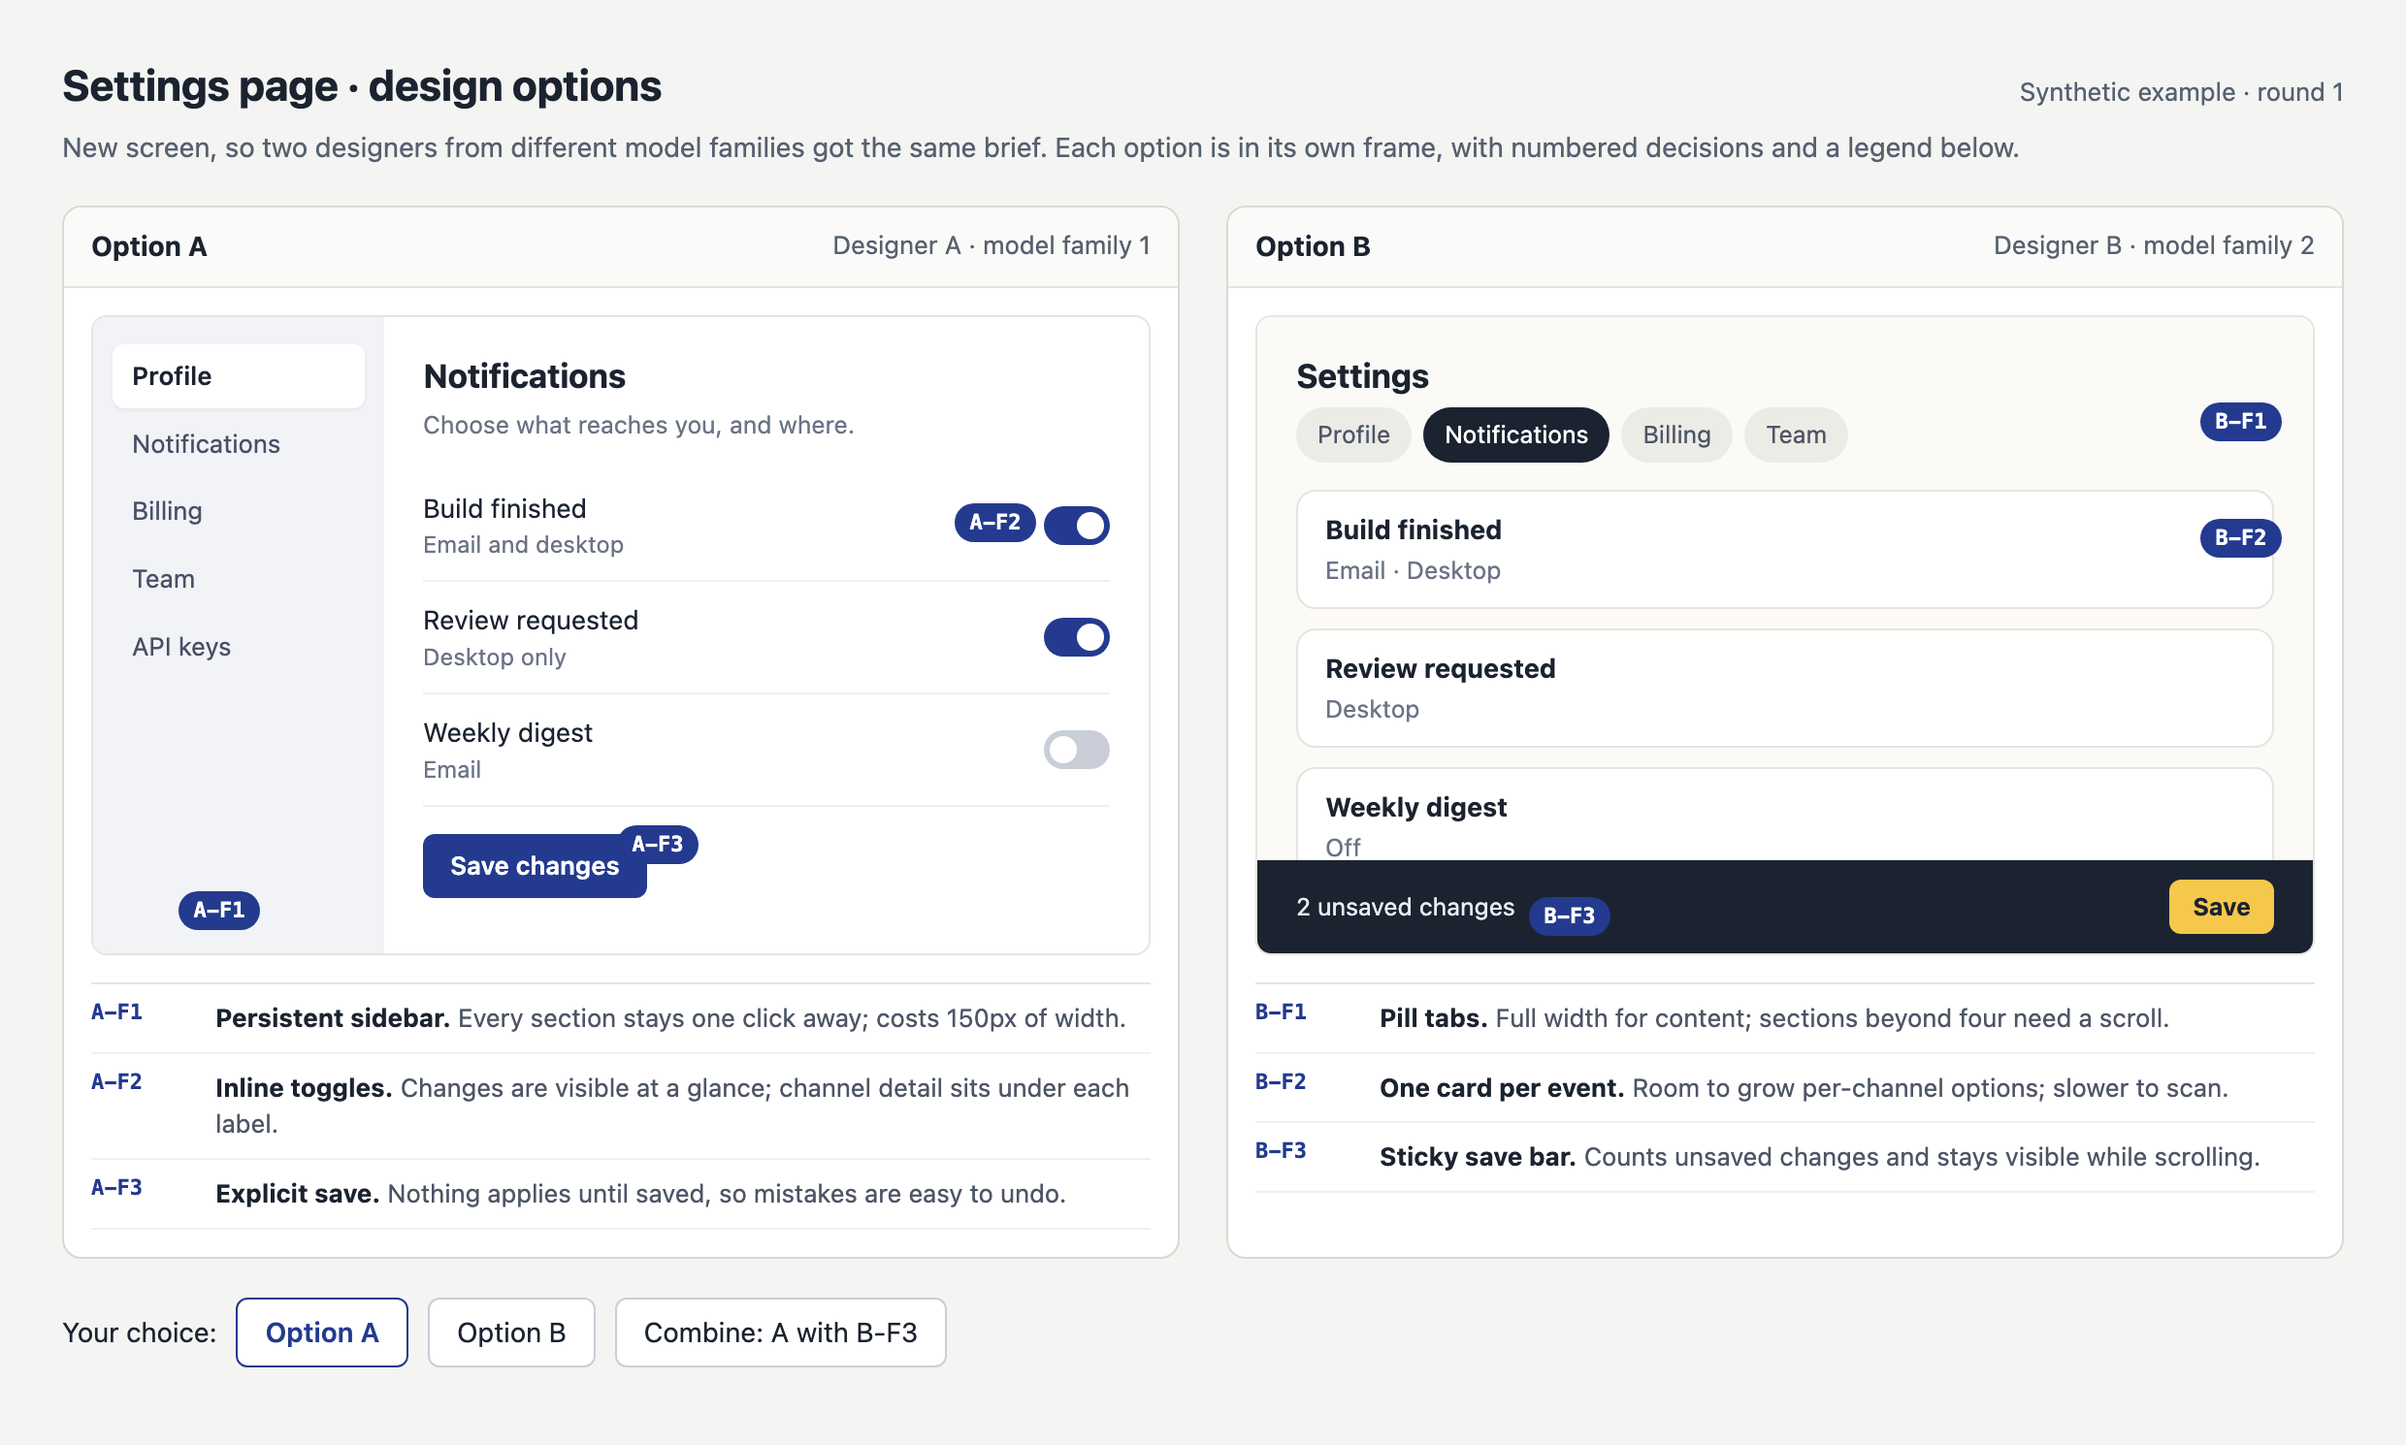
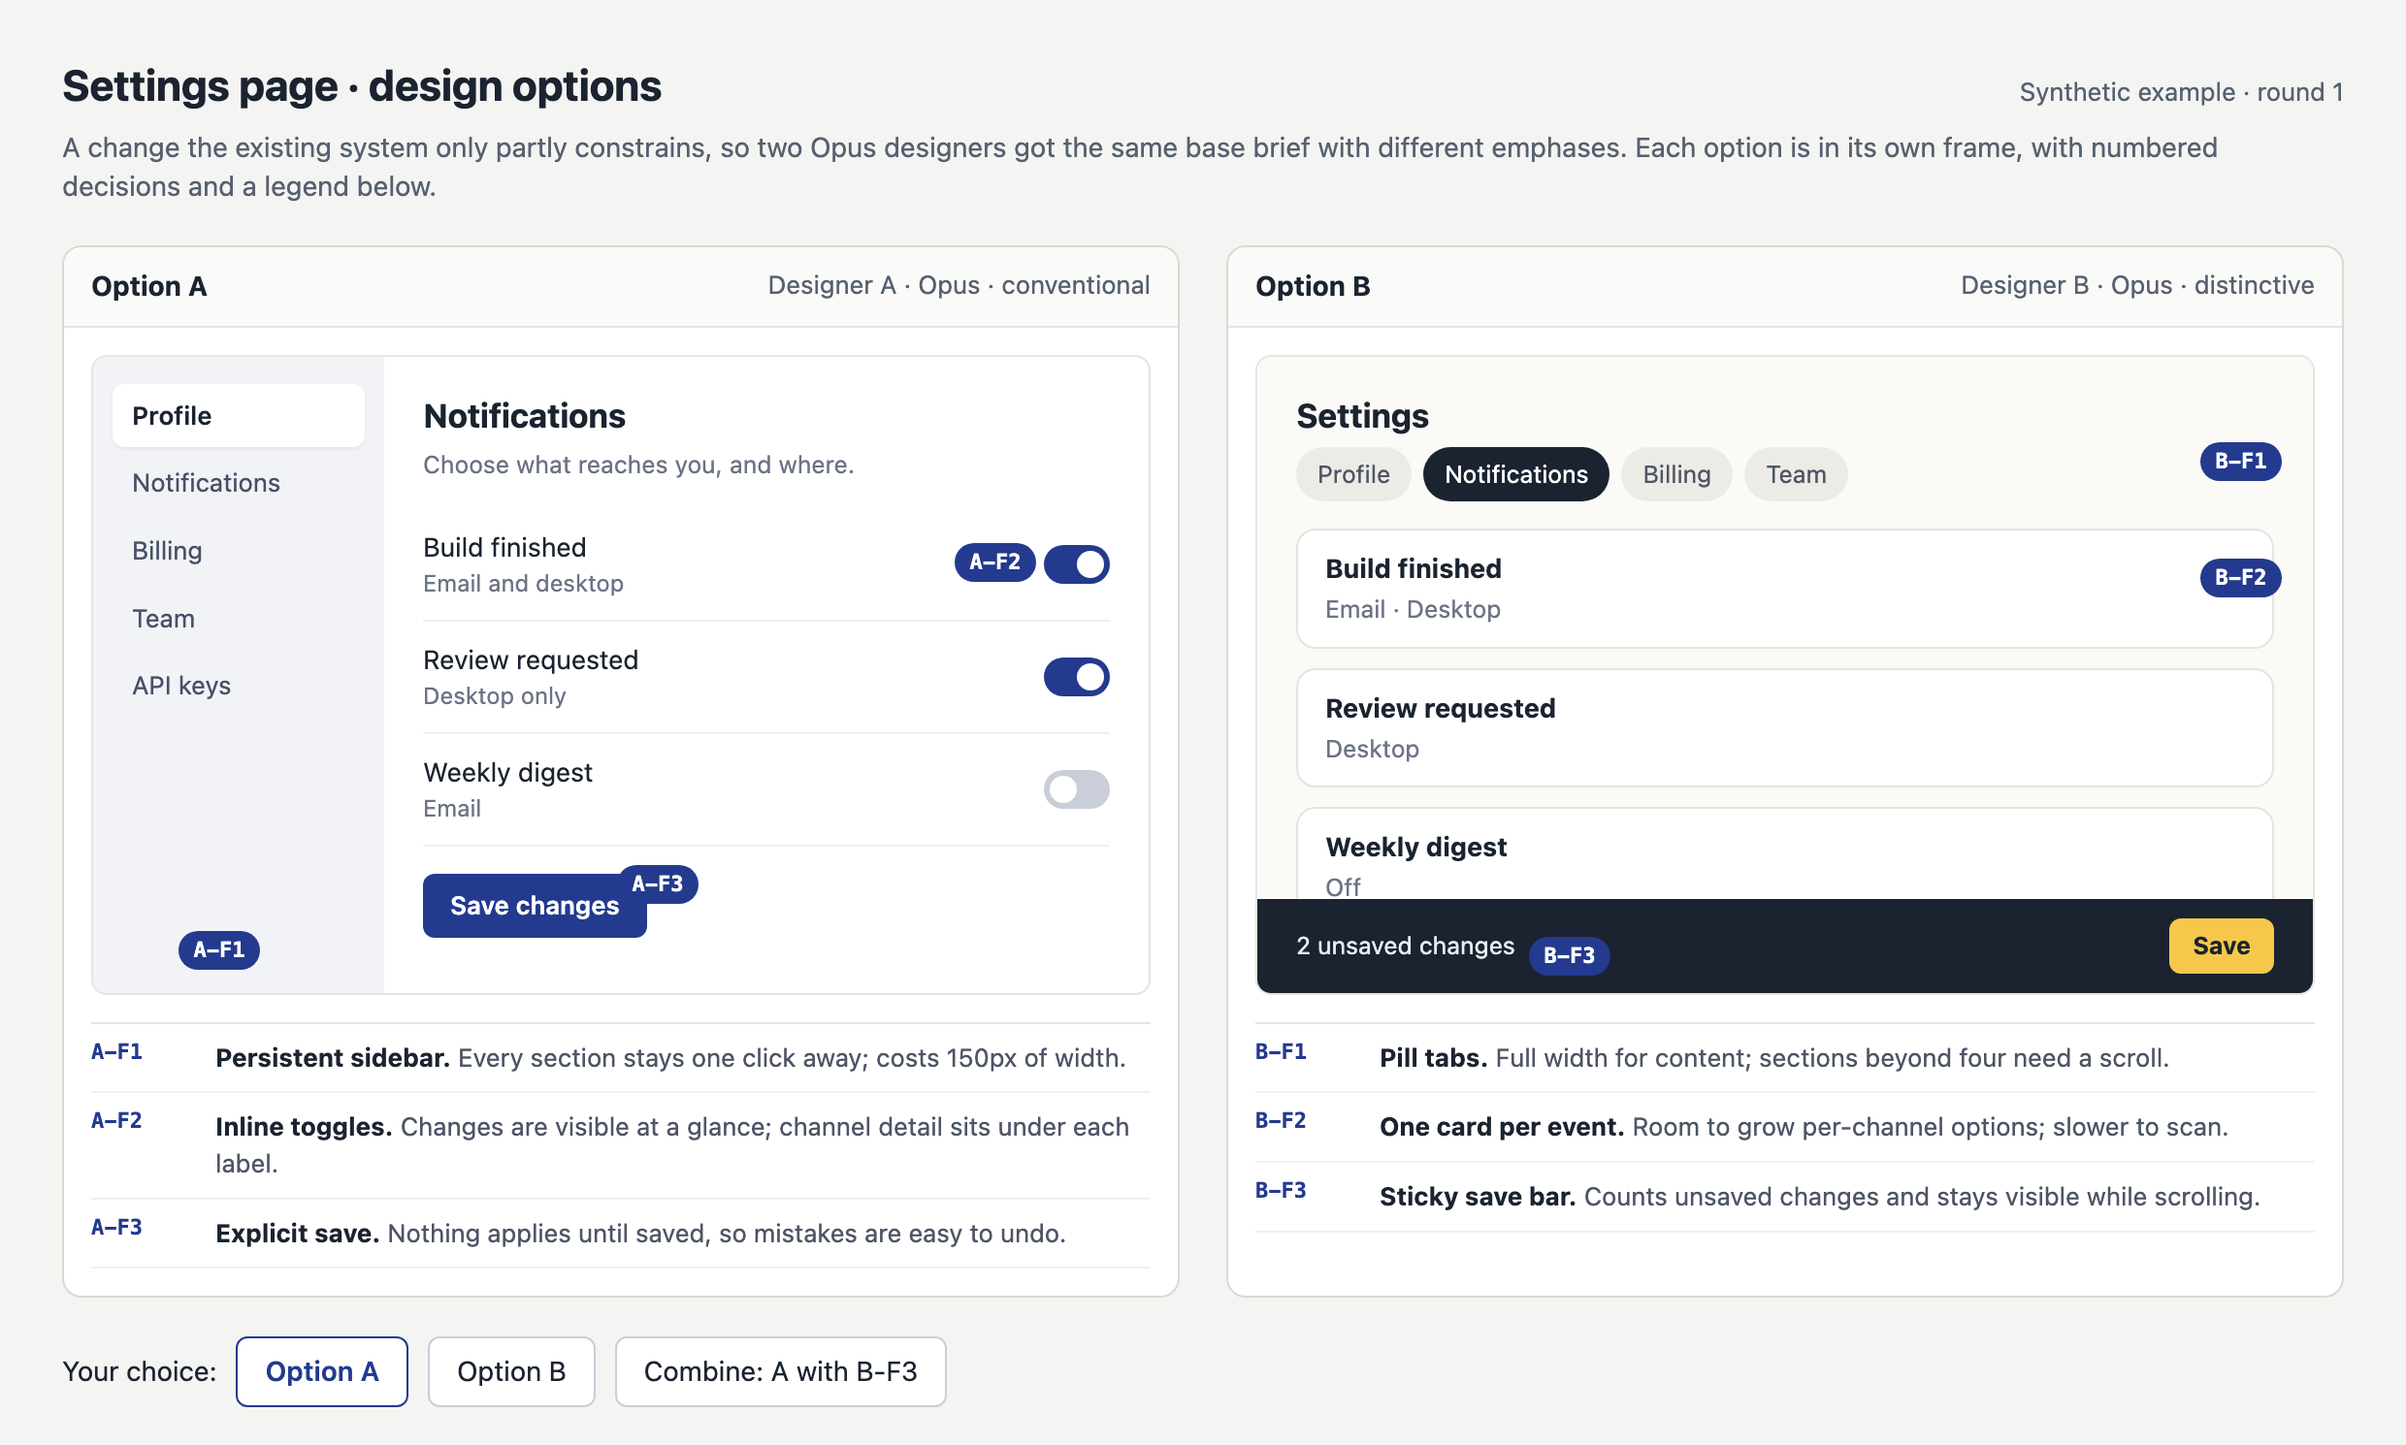
Default choose-design to Opus with distinct design emphases
Update the site copy and example screenshot to match.

diff --git a/site/index.html b/site/index.html
@@ -526,7 +526,7 @@
           <p class="tier-label">Better in T3 Code</p>
           <p class="chips"><a href="#skill-review">review</a> <a href="#skill-think">think</a> <a href="#skill-challenge">challenge</a> <a href="#skill-review-loop">review-loop</a> <a href="#skill-hillclimb">hillclimb</a> <a href="#skill-choose-design">choose-design</a> <a href="#skill-focus-group">focus-group</a> <a href="#skill-ship">ship</a> <a href="#skill-babysitter">babysitter</a> <a href="#skill-settle">settle</a></p>
           <ul>
-            <li>Reviewers, judges and designers start on another provider from the same conversation. Code review needs a second model family; without one, the agent reports the review as unavailable.</li>
+            <li>Reviewers and judges start on another provider from the same conversation; <code>choose-design</code> runs its designers on Opus. Code review needs a second model family; without one, the agent reports the review as unavailable.</li>
             <li><code>babysitter</code> uses T3's pull request watch to wake when checks or reviews change. Elsewhere it waits with its bundled <code>pr-wait</code> helper.</li>
             <li><code>settle</code> calls T3's thread tool to close a finished thread. Without it, it reports the gap instead of claiming the thread is settled.</li>
             <li><code>ship</code>, <code>implement</code> and <code>review-loop</code> show their phases in T3's Tasks row. <code>choose-design</code> shows mockups side by side in preview frames.</li>
@@ -638,7 +638,7 @@
       <form method="dialog"><button class="lb-close" aria-label="Close">✕</button></form>
     </header>
     <a class="lb-shot" href="media/choose-design.png"><img src="media/choose-design.png" width="2480" height="1490" loading="lazy" alt="Two settings-page mockups in separate frames. Option A uses a sidebar and toggles, option B uses pill tabs, cards and a sticky save bar. Numbered markers such as A-F1 point to decisions explained in a legend under each mockup."></a>
-    <p class="lb-caption">A synthetic example laid out to the skill's report rules. Designers from different model families get the same brief and never see each other's work. Each option sits in its own frame, with numbered decisions and a legend underneath, so you can choose one or combine parts, such as “A with B-F3”.</p>
+    <p class="lb-caption">A synthetic example laid out to the skill's report rules. Two Opus designers got the same base brief with different emphases and never saw each other's work. Each option sits in its own frame, with numbered decisions and a legend underneath, so you can choose one or combine parts, such as “A with B-F3”.</p>
     <p class="lb-links"><a href="https://github.com/seankoji-com/.agents/blob/main/skills/choose-design/SKILL.md">Read choose-design's SKILL.md</a> · <a href="media/choose-design.png">Open full size</a></p>
   </div>
 </dialog>

diff --git a/site/workflows.html b/site/workflows.html
@@ -51,7 +51,7 @@
       <div class="facts">
         <div>
           <h3>Settle the choices that change the build</h3>
-          <p><a href="https://github.com/seankoji-com/.agents/blob/main/skills/think/SKILL.md">think</a> asks only the questions whose answers would change the next step, then has a separate reviewer confirm nothing important is open. Plans have no model-family restriction. <a href="https://github.com/seankoji-com/.agents/blob/main/skills/choose-design/SKILL.md">choose-design</a> shows mockups from two model families, or three for a new screen, and you pick before UI work starts. An existing design that already answers the question needs no chooser.</p>
+          <p><a href="https://github.com/seankoji-com/.agents/blob/main/skills/think/SKILL.md">think</a> asks only the questions whose answers would change the next step, then has a separate reviewer confirm nothing important is open. Plans have no model-family restriction. <a href="https://github.com/seankoji-com/.agents/blob/main/skills/choose-design/SKILL.md">choose-design</a> shows mockups from two or three Opus designers, each with a different emphasis, and you pick before UI work starts. An existing design that already answers the question needs no chooser.</p>
         </div>
         <div>
           <h3>Bring evidence to the review</h3>

diff --git a/skills/choose-design/SKILL.md b/skills/choose-design/SKILL.md
@@ -6,9 +6,9 @@ description: "Compare design options once product decisions are settled. Use for
 # Choose a visual design
 
 Use independent mockups to resolve a material UI choice before building. The
-coordinator briefs designers in different model families, checks their work and
-presents it for the user to choose. The designers own the mockups. Invoking this
-skill requests that delegation when a material choice remains.
+coordinator briefs Opus designers, checks their work and presents it for the user
+to choose. The designers own the mockups. Invoking this skill requests that
+delegation when a material choice remains.
 
 ## Size the run
 
@@ -22,7 +22,7 @@ When a material choice remains, compare only alternatives for that choice.
 An explicit chooser request keeps this scope. If no choice remains, report that
 and implement only if requested; do not invent options.
 
-By default, use at least two distinct lineages whenever a material design choice
+By default, use Opus for every designer slot whenever a material design choice
 needs this skill. Routine changes determined by the existing system need no chooser.
 Pick the count from the remaining choice:
 
@@ -31,11 +31,11 @@ Pick the count from the remaining choice:
 - **3** for a new screen, page or app, or a redesign with no established system.
 
 A count or explicit model-only roster overrides these defaults. A named model
-fills one planned slot; fill the remaining slots from the order below. A model
-mention alone does not increase the count or mean "only this model".
-For a single unnamed designer, prefer a lineage outside the coordinator's.
-Label an explicitly constrained single-lineage run honestly. Do not infer that
-constraint from a small task or familiar visual system.
+fills one planned slot; fill the remaining unnamed slots with Opus. A model
+mention alone does not increase the count or mean "only this model". For a
+single unnamed designer, use Opus. Label an explicitly constrained single-model
+run honestly. Do not infer that constraint from a small task or familiar visual
+system.
 
 ## Write the brief
 
@@ -56,36 +56,32 @@ for T3 delegates. Carry existing consent into child briefs instead of asking
 again for the same authorised context. Prefer a minimal design brief over raw
 repository files; host approval and explicit sharing limits still apply.
 
-All designers get the same brief, including the request type, existing baseline,
-allowed changes and what must stay fixed. For existing UI, include enough visual
-evidence to preserve it; inspect missing evidence before dispatch or report the
-gap. Separate requirements from user preferences. Add no style direction beyond
-these constraints. Leave the unresolved choice to the designers. Do not show
-one designer another's work.
+All designers get the same base brief, including the request type, existing
+baseline, allowed changes and what must stay fixed. For existing UI, include
+enough visual evidence to preserve it; inspect missing evidence before dispatch
+or report the gap. Separate requirements from user preferences. Give each
+designer one distinct broad emphasis, such as conventional or distinctive. That
+emphasis is the only style direction; it must not resolve the open choice. Leave
+the unresolved choice to the designers. Do not show one designer another's work.
 
 ## Pick designers
 
-Apply [T3 dispatch preflight](../agent-tuneup/references/t3-dispatch.md) before selecting T3 routes.
-Discover the host's delegation capabilities and exact model identities. Keep any
-named models and settings. Otherwise go through this order and take the first
-compatible models, one per lineage: **Sol, Opus, Wonder Full, Argon, Grok 4.7**.
-For unnamed slots, skip unavailable or preflight-incompatible routes and continue
-down the order. A named unavailable or incompatible model remains a conflict
-under the preflight; do not substitute for it without the user's acceptance.
-An unnamed route rejected as unavailable or incompatible before the designer
-starts counts as unavailable; continue down the order. A sharing-authority
-rejection follows the preflight's sharing procedure, not model substitution to
-avoid the rejection. A designer that fails after starting is reported, not replaced.
-Two aliases, versions or effort settings of the same model are one lineage. The
-coordinator's own lineage is eligible, because the coordinator does not design.
-Before dispatch, state the planned count, exact models and verified lineages,
-with the reason for the count. Check permission and sharing compatibility for
-the whole roster. Start compatible authorised designers without another
-confirmation. Never fill an unnamed slot with a second model from the same
-lineage. If the order runs out before the planned count, or a named-model conflict
-remains, retain partial results and report an incomplete comparison.
-The user must explicitly accept a smaller set before it counts as the completed
-run.
+Apply [T3 dispatch preflight](../agent-tuneup/references/t3-dispatch.md) before
+selecting T3 routes. Discover the host's delegation capabilities and exact model
+identities. Keep any named models and settings. Otherwise choose one compatible
+**Opus** route for the batch, applying the preflight's provider score, and use it
+at high effort for every unnamed slot. A named unavailable or incompatible model
+remains a conflict under the preflight; do not substitute for it without the
+user's acceptance. A sharing-authority rejection follows the preflight's sharing
+procedure, not model substitution to avoid the rejection. A designer that fails
+after starting is reported, not replaced. The coordinator may share the model,
+because the coordinator does not design. Before dispatch, state the planned
+count, exact models and the reason for the count. Check permission and sharing
+compatibility for the whole roster. Start compatible authorised designers without
+another confirmation. If no compatible Opus route exists before the planned count
+is filled, retain partial results and report an incomplete comparison. Do not
+substitute another family. The user must explicitly accept a smaller set before
+it counts as the completed run.
 
 Label designers A, B and C in dispatch order. In T3 Code, resolve models with
 `orchestrator_capabilities` subject to the host's discovery frequency. Start one
@@ -102,10 +98,10 @@ main thread presents choices and obtains the user's selection.
 
 ## Designer instructions
 
-Ask each designer for 2 options, or 3 when the brief supports three distinct
-directions. For existing UI, vary the requested decision while keeping the
-rest of the baseline consistent across options. Do not broaden the scope to
-make options look different. For each option, the designer returns:
+Within its emphasis, ask each designer for 2 options, or 3 when the brief
+supports three distinct directions. For existing UI, vary the requested decision
+while keeping the rest of the baseline consistent across options. Do not broaden
+the scope to make options look different. For each option, the designer returns:
 
 - A short, memorable name.
 - A blurb of two to four sentences giving the intent of the design and why it
@@ -128,9 +124,9 @@ options came back.
 ## Check the options
 
 Open every option and check its controls and annotations against the report
-requirements. Reject or repair any that breaks the brief, fails to render,
-loads remote assets or copies a sibling. For existing UI, check each change
-against the allowed scope. Shared baseline elements are expected, not copied
+requirements and its designer's emphasis. Reject or repair any that breaks the
+brief, fails to render, loads remote assets or copies a sibling. For existing UI,
+check each change against the allowed scope. Shared baseline elements are expected, not copied
 directions. If two designers make the same unresolved choice, ask the later
 designer for one redo within the same scope. Do not loop beyond that or invent
 a broader redesign to force variety. Report a designer that failed with its
@@ -144,7 +140,7 @@ fallback and note it in the blurb. Correct inaccurate blurbs.
 In T3 Code, give each option its own frame, grouped by designer. For each,
 check the page with `html_preview`, then show it with `html_render` at the
 measured height. Each frame opens with a header in the T3 theme variables. The
-header holds a label such as `B2 · Grok 4.7`, the option name and the blurb.
+header holds a label such as `B2 · Opus`, the option name and the blurb.
 Below the header, put the mockup in its own box with its own colours, 16px of
 padding and `var(--radius)` corners. Title each frame with its label and name.
 

diff --git a/README.md b/README.md
@@ -617,7 +617,7 @@ installed skill discovery and deployment success each need their own evidence.
 
 People changing the library should also read [AGENTS.md](AGENTS.md).
 
-<!-- skills-review: ab3ed64b498c1d53d626e9c886eeb5dd9b8b1cc668555ba8c774dc6ce2927f4e -->
+<!-- skills-review: d604185d28528137793446336d1a2d255bcaea5adcd73e4bd6a9cc2a9fd9a407 -->
 
 ### Owner maintenance
 
